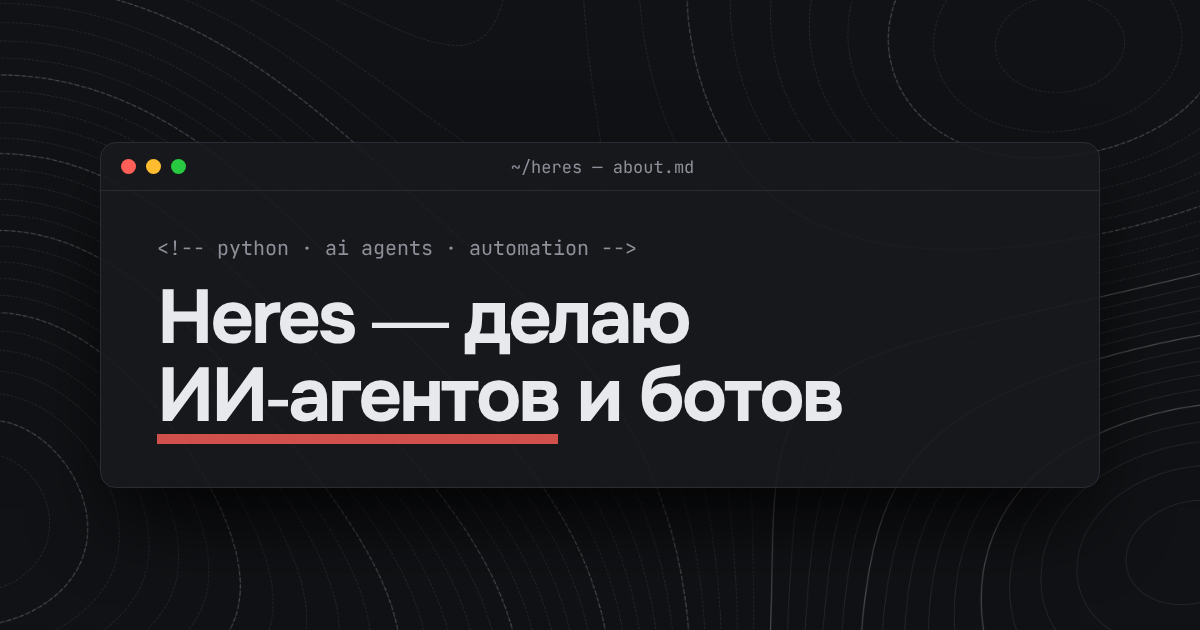
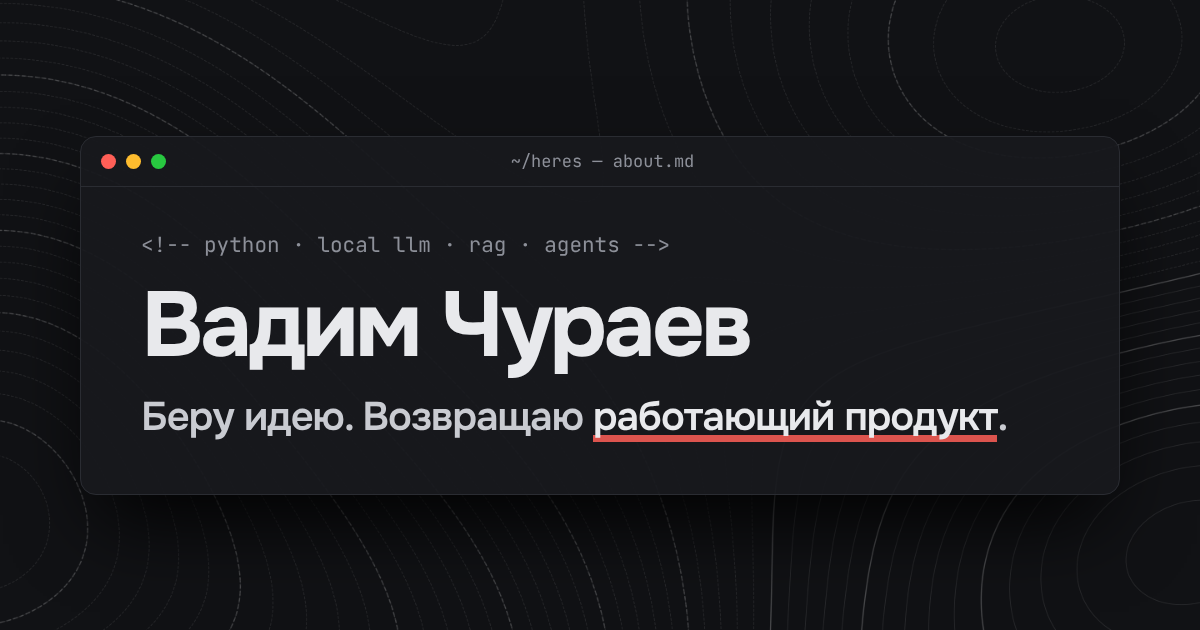
Новое превью ссылки

diff --git a/src/config/site.ts b/src/config/site.ts
@@ -10,10 +10,10 @@ export const site = {
   /** Ник — в логотипе ~/heres и в терминале */
   handle: 'heres',
   /** Роль одной строкой — для заголовков страниц и поисковиков */
-  role: 'Инженер-разработчик · Python, ИИ-системы и сервисы', // TODO: уточнить под вакансии
+  role: 'Python‑разработчик · ИИ‑системы на локальных моделях',
   /** Описание для поисковиков и превью ссылок (до ~160 символов) */
   description:
-    'Вадим Чураев — инженер-разработчик: Python-сервисы, системы на LLM, боты и автоматизация. Довожу идеи до работающего продукта.',
+    'Вадим Чураев — Python‑разработчик: ИИ‑системы на локальных моделях (LLM‑шлюз, RAG, агенты), сервисы, боты и автоматизация. Довожу идеи до работающего продукта.',
   location: 'Москва', // TODO: + формат работы, например «Москва · удалённо или гибрид»
   /** Плашка «открыт к работе» в верхнем меню */
   openToWork: true,
